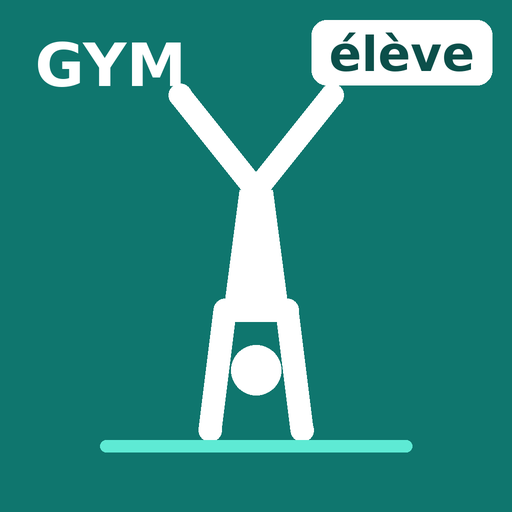
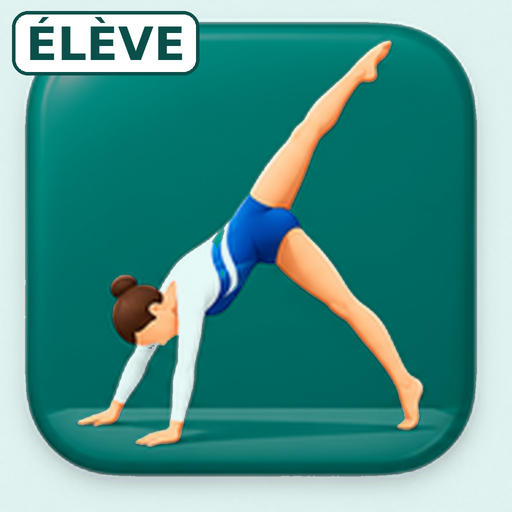
Nouvelles icônes gymnastique (visuel choisi par Yannick)
Claude-Session: https://claude.ai/code/session_01W45JVKsQKW4xh1AxP6R2BL

diff --git a/sw.js b/sw.js
@@ -1,7 +1,7 @@
 /* Hors ligne : l'appli est gardée sur l'appareil à la première ouverture avec internet,
    puis s'ouvre sans connexion. La page est rechargée depuis GitHub dès que le réseau répond (3 s max) ;
    les autres fichiers sont servis depuis l'appareil et mis à jour en arrière-plan. */
-const CACHE='mon-eps-v17';
+const CACHE='mon-eps-v18';
 // Toutes les applis partagent le même stockage (même adresse github.io) : on n'efface QUE les anciennes versions de CETTE appli.
 const MES_CACHES=/^(?:mon\-eps\-v)\d+$/;
 
